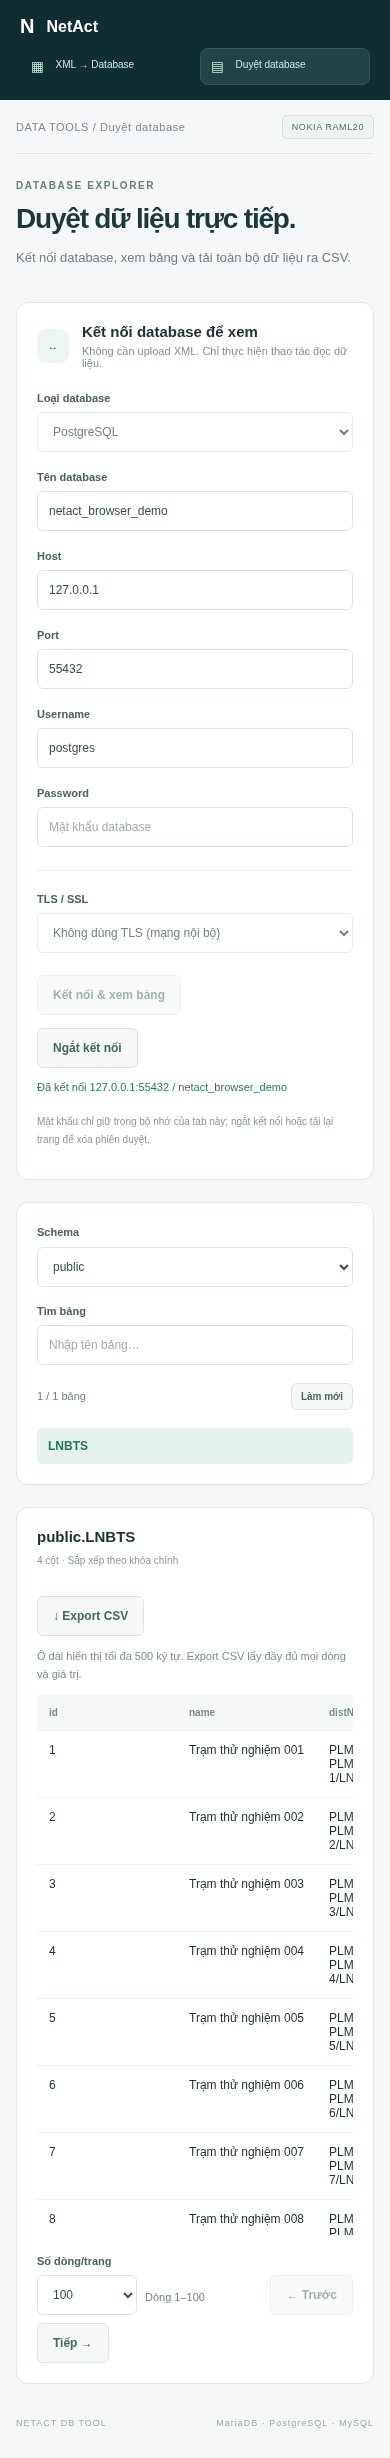
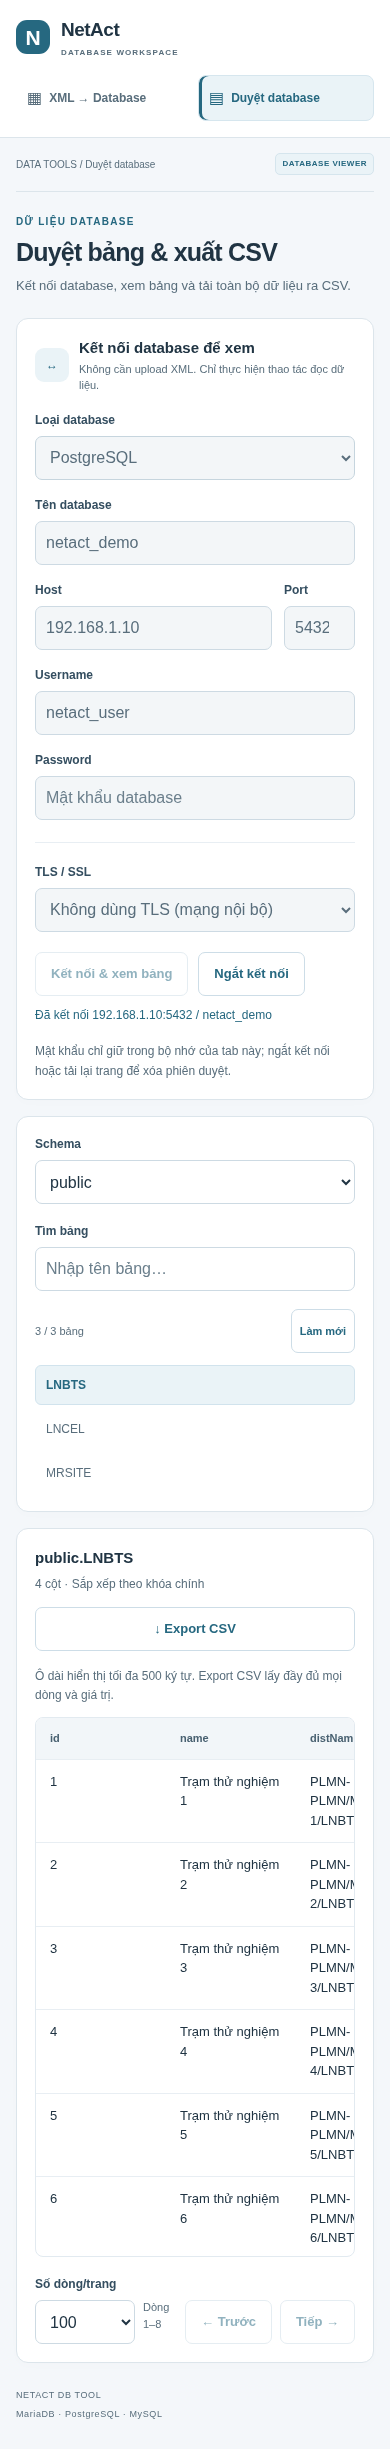
Refresh interface with #266880 accent and clearer import layout

diff --git a/app/static/style.css b/app/static/style.css
@@ -1,6 +1,145 @@
-:root{font-family:Inter,-apple-system,BlinkMacSystemFont,"Segoe UI",sans-serif;color:#1e3033;background:#f5f7f8;font-synthesis:none;font-size:14px}*{box-sizing:border-box}body{margin:0}aside{width:220px;position:fixed;inset:0 auto 0 0;background:#102e31;color:#eaf5f2;padding:34px 22px;display:flex;flex-direction:column}.brand{display:flex;gap:12px;align-items:center;font-size:24px;font-weight:700;color:white;text-decoration:none}.brand>span{font-size:19px}.brand small{display:block;font-size:8px;letter-spacing:2px;color:#92b7b2;margin-top:6px}.nav{margin-top:58px;padding:14px;background:#244346;border:1px solid #385658;border-radius:8px;color:#c6eee3;display:flex;gap:12px}.nav span{font-size:13px}.aside-bottom{margin-top:auto;font-size:12px;color:#bed3d0}.aside-bottom small{display:block;font-size:10px;color:#7d9e9b;margin-top:9px}.dot{display:inline-block;background:#69d9b4;width:6px;height:6px;border-radius:50%;margin-right:6px}main{margin-left:220px;max-width:1500px;padding:0 44px}header{height:80px;display:flex;align-items:center;justify-content:space-between;border-bottom:1px solid #e0e7e7;font-size:11px;color:#7a898d;letter-spacing:.6px}header b{margin:0 13px;font-weight:400;color:#b1bdbe}.badge{border:1px solid #d5e1dd;border-radius:5px;padding:6px 9px;color:#4d7068;font-size:9px;background:#eef4f1}.intro{padding:36px 0 30px}.eyebrow{font-size:10px;font-weight:700;letter-spacing:1.6px;color:#64817b}h1{font-size:34px;letter-spacing:-1.2px;margin:12px 0;color:#193a3b;font-weight:650}.intro>p{color:#718083;font-size:13px;line-height:1.6}.flow{display:flex;align-items:center;gap:17px;margin-top:25px;font-size:11px;color:#5b7473}.flow i{font-style:normal;background:#e1ebe7;padding:4px 7px;border-radius:50%;margin-right:6px;color:#366957}.flow em{font-style:normal;color:#b1bfbc}.columns{display:grid;grid-template-columns:minmax(0,1.9fr) minmax(280px,1fr);gap:24px}.card{background:white;border:1px solid #e0e7e7;border-radius:12px;padding:25px;margin-bottom:22px;box-shadow:0 3px 8px #17383203}.section-title{display:flex;align-items:center;gap:13px;margin-bottom:23px}.step{width:34px;height:34px;border-radius:9px;display:grid;place-items:center;color:#398873;background:#edf5f1;font-size:11px;font-weight:700}h2{font-size:15px;margin:0 0 5px;font-weight:650}.section-title p{font-size:11px;margin:0;color:#82908f}.dropzone{border:1.5px dashed #b7d2c8;border-radius:9px;background:#f7fbf9;min-height:195px;display:flex;align-items:center;justify-content:center;flex-direction:column;gap:10px;cursor:pointer;text-align:center;padding:22px;position:relative}.dropzone:hover,.dropzone.drag{background:#edf7f1;border-color:#378d71}.upload-icon{font-size:28px;color:#3b8e75;background:#e7f2ec;border-radius:10px;padding:0 12px;margin-bottom:4px}.dropzone strong{font-size:13px;max-width:100%;overflow-wrap:anywhere}.dropzone>span{font-size:11px;color:#83938c}.dropzone .file-tag{font-size:9px;letter-spacing:.4px;margin-top:4px}#xml-file{position:absolute;opacity:0;width:100%;height:100%;inset:0;cursor:pointer}.dropzone:focus-within{outline:2px solid #278265}.grid{display:grid;grid-template-columns:1fr 1fr;gap:19px 18px}label{font-size:11px;font-weight:600;color:#4c6262}input,select{width:100%;height:40px;border:1px solid #dce4e3;border-radius:6px;padding:0 11px;background:white;color:#344e4c;margin-top:8px;font-family:inherit;font-size:12px}input::placeholder{color:#a2acab}input:focus,select:focus{outline:2px solid #c7e5d9;border-color:#4d9e80}.options{padding-top:22px;margin-top:23px;border-top:1px solid #edf1f0}.check{display:flex;gap:9px;align-items:center;padding-top:17px}.check input{width:16px;height:16px;margin:0;accent-color:#2d896c}.check small{display:block;font-size:9px;color:#95a29f;font-weight:400;margin-top:5px}.connection-row{display:flex;gap:13px;align-items:center;margin-top:22px}#connection-result{font-size:10px;line-height:1.5}.button{border:0;border-radius:6px;padding:12px 15px;font-family:inherit;font-size:12px;font-weight:600;cursor:pointer}.secondary{background:#f5f8f7;border:1px solid #d9e5df;color:#426b5d;white-space:nowrap}.primary{background:#277d63;color:white;width:100%;display:flex;justify-content:space-between;margin-top:24px}.primary:hover{background:#206b55}.button:disabled{opacity:.5;cursor:wait}.summary h2{font-size:23px;letter-spacing:-.6px;line-height:1.4;margin:16px 0 25px}.summary ol{list-style:none;padding:0;counter-reset:steps}.summary li{counter-increment:steps;position:relative;padding:0 0 15px 31px}.summary li:before{content:counter(steps);position:absolute;left:0;top:-2px;background:#f0f5f3;width:21px;height:21px;border-radius:50%;display:grid;place-items:center;color:#669184;font-size:10px}.summary li b{font-size:12px}.summary li p{font-size:11px;color:#889591;line-height:1.7;margin:7px 0}.notice{padding:14px;background:#f0f7f3;border-radius:7px;color:#45715e;margin-top:8px}.notice strong{font-size:11px}.notice p{font-size:10px;line-height:1.7;margin:7px 0 0}.privacy{font-size:10px;line-height:1.8;color:#8b9793;margin-top:20px}.hint{font-size:9px;color:#91a09a;text-align:center;display:block;margin-top:12px}.status h3{font-size:14px;margin:16px 0 10px}.status p{font-size:11px;line-height:1.8;color:#82908b;overflow-wrap:anywhere}progress{width:85%;height:6px;accent-color:#2c8a6b}#percent{font-size:10px;margin-left:8px;color:#6d8c80}.error{color:#bc4a40!important}.success{color:#26795c!important}.table-wrap{overflow:auto}table{width:100%;border-collapse:collapse;text-align:left;font-size:12px}th{font-size:10px;color:#7a8f87;background:#f5f8f6}th,td{padding:12px;border-bottom:1px solid #eef2ef}footer{padding:12px 0 30px;color:#9aaba4;font-size:9px;letter-spacing:1px;display:flex;justify-content:space-between}[hidden]{display:none!important}@media(min-width:1600px){main{margin-right:auto}}@media(max-width:1100px){aside{width:175px;padding:28px 16px}main{margin-left:175px;padding:0 24px}.columns{grid-template-columns:1fr}.side-column{display:grid;grid-template-columns:1fr 1fr;gap:20px;align-items:start}}@media(max-width:650px){aside{position:static;width:100%;padding:15px 20px}.brand{font-size:20px}.brand>span{font-size:16px}.brand small,.nav,.aside-bottom{display:none}main{margin:0;padding:0 16px}header{height:54px}h1{font-size:28px}.intro{padding:26px 0 20px}.flow{gap:7px;font-size:9px}.flow i{margin-right:2px}.grid,.side-column{grid-template-columns:1fr}.card{padding:20px}.check{padding-top:0}.connection-row{align-items:start;flex-direction:column}.columns{gap:0}.side-column{gap:0}}
-
-.dropzone .upload-icon{display:grid;place-items:center;padding:9px 12px;color:#3b8e75}
-.nav{font-family:inherit;text-align:left;cursor:pointer;width:100%;background:transparent;border-color:transparent}.nav.active{background:#244346;border-color:#385658}.nav+.nav{margin-top:10px}.explorer-layout{display:grid;grid-template-columns:245px minmax(0,1fr);gap:22px}.table-search{display:block;margin-top:18px}.list-heading{display:flex;justify-content:space-between;align-items:center;margin:18px 0;font-size:11px;color:#718083}.compact{padding:7px 9px;font-size:10px}.table-list{display:flex;flex-direction:column;max-height:570px;overflow:auto;gap:4px}.table-list button{border:0;background:transparent;text-align:left;font:inherit;font-size:12px;padding:11px;border-radius:5px;color:#526f65;cursor:pointer;overflow-wrap:anywhere}.table-list button.selected{background:#e5f3ec;color:#20775d;font-weight:600}.table-list button:hover{background:#f0f6f3}.data-heading{display:flex;align-items:start;justify-content:space-between;gap:16px}.data-heading h2{overflow-wrap:anywhere}.data-heading .privacy{margin-top:7px}.browser-table{max-height:540px;min-height:180px}.browser-table table{white-space:pre-wrap}.browser-table td{min-width:140px;max-width:400px;overflow-wrap:anywhere;vertical-align:top}.browser-table th{position:sticky;top:0;white-space:nowrap;z-index:1}.null-cell{font-style:italic;color:#a1aaa6}.pagination{display:flex;gap:12px;align-items:end;flex-wrap:wrap;margin-top:20px}.pagination label{width:100px}.pagination>span{font-size:11px;color:#718083;margin:auto auto 12px 0}#browse-message{font-size:11px;color:#7b8e86;line-height:1.7;overflow-wrap:anywhere}#browse-connection{font-size:11px;overflow-wrap:anywhere}.data-card,.table-list-card{min-width:0}.data-heading .button{white-space:nowrap}@media(max-width:1100px){.explorer-layout{grid-template-columns:190px minmax(0,1fr)}}@media(max-width:650px){aside{flex-direction:row;flex-wrap:wrap;gap:10px}.brand{width:100%}aside .nav{display:flex;flex:1;padding:10px;margin:0!important}aside .nav span{font-size:10px}.explorer-layout{grid-template-columns:1fr;gap:0}.table-list{max-height:180px}.data-heading{flex-direction:column}.pagination{gap:8px}}
-
-.reset-option{margin-top:18px;padding:14px;background:#fff6ef;border:1px solid #efded0;border-radius:7px}.reset-option .check{padding-top:0}.reset-option>label+label{display:block;margin-top:15px}.import-errors{font-size:11px;color:#a6483c;line-height:1.7;overflow-wrap:anywhere}
+:root {
+  --accent: #266880;
+  --accent-hover: #1e5366;
+  --accent-soft: #eaf3f7;
+  --ink: #203443;
+  --muted: #596e7c;
+  --line: #dce5eb;
+  --surface: #fff;
+  --canvas: #f4f7fa;
+  --danger: #ac382f;
+  font-family: -apple-system, BlinkMacSystemFont, "Segoe UI", Arial, sans-serif;
+  font-size: 14px;
+  line-height: 1.5;
+  color: var(--ink);
+  background: var(--canvas);
+  font-synthesis: none;
+}
+* { box-sizing: border-box; }
+body { margin: 0; }
+button, input, select { font: inherit; }
+button { cursor: pointer; }
+[hidden] { display: none !important; }
+:focus-visible { outline: 3px solid #80afc5; outline-offset: 3px; }
+.skip-link { position: fixed; top: -60px; left: 16px; z-index: 10; background: var(--accent); color: #fff; padding: 12px; border-radius: 6px; }
+.skip-link:focus { top: 12px; }
+aside { position: fixed; inset: 0 auto 0 0; width: 232px; background: var(--surface); border-right: 1px solid var(--line); padding: 30px 18px 24px; display: flex; flex-direction: column; z-index: 2; }
+.brand { display: flex; gap: 11px; align-items: center; color: var(--ink); text-decoration: none; margin: 0 10px 36px; }
+.brand > .brand-mark { display: grid; place-items: center; width: 40px; height: 40px; border-radius: 11px; background: var(--accent); color: #fff; font-weight: 700; font-size: 24px; }
+.brand > span:last-child { font-size: 21px; font-weight: 700; letter-spacing: -.5px; }
+.brand small { display: block; margin-top: 2px; font-size: 8px; font-weight: 600; letter-spacing: 1.1px; color: var(--muted); }
+.nav { display: flex; align-items: center; gap: 11px; width: 100%; text-align: left; border: 1px solid transparent; border-radius: 8px; padding: 13px 14px; background: transparent; color: var(--muted); font-size: 16px; margin: 4px 0; }
+.nav span { font-size: 13px; font-weight: 600; }
+.nav:hover { background: #f3f6f9; }
+.nav.active { color: var(--accent); background: var(--accent-soft); border-color: #d6e6ee; box-shadow: inset 3px 0 0 var(--accent); }
+.aside-bottom { margin-top: auto; padding: 18px 10px 0; border-top: 1px solid var(--line); font-size: 12px; color: var(--muted); }
+.aside-bottom small { display: block; font-size: 10px; margin-top: 7px; color: var(--muted); }
+.dot { display: inline-block; width: 7px; height: 7px; margin-right: 7px; border-radius: 50%; background: var(--accent); }
+main { margin-left: 232px; padding: 0 36px; max-width: 1700px; }
+header { min-height: 68px; display: flex; align-items: center; justify-content: space-between; gap: 16px; border-bottom: 1px solid var(--line); font-size: 12px; color: var(--muted); }
+header b { font-weight: 400; margin: 0 10px; color: #a7b7c2; }
+.badge { flex-shrink: 0; border: 1px solid #d5e5ed; color: var(--accent); background: var(--accent-soft); border-radius: 5px; padding: 5px 9px; font-size: 10px; font-weight: 600; letter-spacing: .5px; }
+.intro { padding: 28px 0 24px; }
+.eyebrow { color: var(--accent); font-weight: 700; letter-spacing: 1.3px; font-size: 10px; }
+h1 { margin: 7px 0 8px; font-size: 30px; line-height: 1.3; letter-spacing: -.8px; font-weight: 650; }
+.intro > p { color: var(--muted); margin: 0; font-size: 14px; }
+.flow { display: flex; align-items: center; gap: 18px; margin-top: 22px; color: var(--muted); font-size: 12px; }
+.flow span { display: flex; align-items: center; gap: 7px; }
+.flow i { display: inline-grid; place-items: center; width: 24px; height: 24px; border-radius: 50%; background: #e6edf3; color: var(--accent); font-style: normal; font-size: 11px; font-weight: 700; }
+.flow em { color: #8ca1af; font-style: normal; }
+.columns { display: grid; grid-template-columns: minmax(0, 1fr) 310px; gap: 22px; align-items: start; }
+.form-column, .side-column { min-width: 0; }
+.side-column { position: sticky; top: 24px; }
+.card { background: var(--surface); border: 1px solid var(--line); border-radius: 12px; padding: 24px; margin-bottom: 20px; box-shadow: 0 3px 12px #243e4d03; min-width: 0; }
+.section-title { display: flex; align-items: center; gap: 12px; margin-bottom: 20px; }
+.step { display: grid; place-items: center; flex-shrink: 0; width: 34px; height: 34px; border-radius: 9px; background: var(--accent-soft); color: var(--accent); font-size: 12px; font-weight: 700; }
+h2 { margin: 0; font-size: 16px; line-height: 1.4; font-weight: 650; }
+.section-title p { margin: 3px 0 0; font-size: 12px; color: var(--muted); }
+.dropzone { display: grid; grid-template-columns: 46px 1fr; column-gap: 16px; align-items: center; align-content: center; position: relative; min-height: 126px; padding: 22px; border: 1.5px dashed #9cbccc; border-radius: 9px; background: #f7fbfd; cursor: pointer; transition: background .15s, border-color .15s; }
+.dropzone:hover, .dropzone.drag { background: var(--accent-soft); border-color: var(--accent); }
+.dropzone:focus-within { outline: 3px solid #80afc5; outline-offset: 3px; }
+.upload-icon { grid-row: 1 / 4; display: grid; place-items: center; width: 46px; height: 46px; color: var(--accent); background: #e5f0f5; border-radius: 11px; }
+.dropzone strong { color: var(--ink); font-size: 14px; overflow-wrap: anywhere; min-width: 0; }
+.dropzone > span:not(.upload-icon) { color: var(--muted); font-size: 12px; font-weight: 400; }
+.dropzone .file-tag { font-size: 11px !important; margin-top: 5px; }
+#xml-file { position: absolute; inset: 0; opacity: 0; width: 100%; height: 100%; cursor: pointer; margin: 0; }
+.grid { display: grid; grid-template-columns: repeat(4, minmax(0, 1fr)); gap: 18px; }
+.grid > label { grid-column: span 2; }
+.grid:not(.options) > label:nth-child(3) { grid-column: span 3; }
+.grid:not(.options) > label:nth-child(4) { grid-column: span 1; }
+label { display: block; font-size: 12px; font-weight: 600; color: #344e60; }
+input, select { width: 100%; min-width: 0; height: 44px; margin-top: 7px; border: 1px solid #cddae3; border-radius: 7px; padding: 0 12px; background: var(--surface); color: var(--ink); font-size: 14px; font-weight: 400; transition: border-color .15s, box-shadow .15s; }
+input::placeholder { color: #6b7f8c; opacity: 1; }
+input:hover, select:hover { border-color: #92abba; }
+input:focus, select:focus { outline: 0; border-color: var(--accent); box-shadow: 0 0 0 3px #2668801a; }
+input:disabled, select:disabled { background: #f3f6f8; color: var(--muted); opacity: 1; }
+.options { border-top: 1px solid #e8eef3; margin-top: 22px; padding-top: 20px; }
+.check { display: flex; gap: 10px; align-items: center; font-size: 12px; }
+.options .check { align-self: center; padding-top: 18px; }
+.check input { width: 17px; height: 17px; margin: 0; flex-shrink: 0; accent-color: var(--accent); cursor: pointer; }
+.check small { display: block; font-size: 11px; color: var(--muted); font-weight: 400; margin-top: 3px; line-height: 1.5; }
+.reset-option { margin-top: 20px; border: 1px solid #e1e7ec; border-radius: 8px; padding: 13px 14px; background: #fafbfc; }
+.reset-option:has(input:checked) { border-color: #e7bca8; background: #fff8f3; }
+.reset-option:has(input:checked) .check { color: #9c4532; }
+.reset-option > label + label { margin-top: 15px; }
+.connection-row { display: flex; gap: 14px; align-items: center; flex-wrap: wrap; margin-top: 20px; }
+#connection-result, #browse-connection { font-size: 12px; line-height: 1.6; overflow-wrap: anywhere; flex: 1; min-width: 140px; }
+.button { display: inline-flex; gap: 12px; align-items: center; justify-content: center; min-height: 42px; padding: 10px 15px; border: 1px solid transparent; border-radius: 7px; font-size: 13px; font-weight: 600; transition: background .15s, box-shadow .15s; }
+.secondary { background: #fff; border-color: #cddde7; color: var(--accent); }
+.secondary:hover { background: var(--accent-soft); border-color: #9bbdce; }
+.primary { background: var(--accent); color: #fff; padding: 12px 19px; box-shadow: 0 3px 6px #26688017; }
+.primary:hover { background: var(--accent-hover); }
+.button:disabled, button:disabled { opacity: .5; cursor: not-allowed; box-shadow: none; }
+.form-actions { display: flex; justify-content: space-between; align-items: center; gap: 16px; padding-top: 20px; margin-top: 22px; border-top: 1px solid var(--line); }
+.form-actions > span { font-size: 12px; color: var(--muted); }
+.task-details { margin: 0 0 20px; }
+.task-details > div { padding: 11px 0; border-bottom: 1px solid #edf1f5; }
+.task-details dt { font-size: 11px; color: var(--muted); margin-bottom: 4px; }
+.task-details dd { margin: 0; font-size: 13px; font-weight: 600; overflow-wrap: anywhere; }
+.notice { padding: 14px; background: var(--accent-soft); border-radius: 8px; color: var(--accent); }
+.notice strong { font-size: 12px; }
+.notice p { margin: 6px 0 0; font-size: 12px; line-height: 1.7; color: #405f70; }
+.privacy { margin: 16px 0 0; font-size: 12px; line-height: 1.7; color: var(--muted); }
+.status h3 { font-size: 15px; margin: 13px 0 8px; }
+.status p { font-size: 12px; line-height: 1.7; color: var(--muted); overflow-wrap: anywhere; }
+progress { appearance: none; width: calc(100% - 42px); height: 7px; border: 0; border-radius: 20px; overflow: hidden; background: #e6edf3; accent-color: var(--accent); }
+progress::-webkit-progress-bar { background: #e6edf3; border-radius: 20px; }
+progress::-webkit-progress-value { background: var(--accent); border-radius: 20px; transition: width .2s; }
+progress::-moz-progress-bar { background: var(--accent); border-radius: 20px; }
+#percent { font-size: 11px; margin-left: 8px; color: var(--accent); }
+.error, .import-errors { color: var(--danger) !important; }
+.success { color: var(--accent) !important; }
+.import-errors { font-size: 12px; line-height: 1.7; overflow-wrap: anywhere; }
+.table-wrap { overflow: auto; border: 1px solid #e2eaf0; border-radius: 8px; }
+table { width: 100%; border-collapse: collapse; text-align: left; font-size: 13px; }
+th, td { padding: 12px 14px; border-bottom: 1px solid #e8eef3; }
+th { background: #f2f6f9; color: #496171; font-size: 11px; font-weight: 650; }
+tbody tr:last-child td { border-bottom: 0; }
+tbody tr:hover { background: #f7fbfd; }
+.explorer-layout { display: grid; grid-template-columns: 230px minmax(0, 1fr); gap: 20px; }
+.table-search { margin-top: 18px; }
+.list-heading { display: flex; align-items: center; justify-content: space-between; gap: 10px; margin: 18px 0 12px; font-size: 11px; color: var(--muted); }
+.compact { min-height: 32px; padding: 5px 8px; font-size: 11px; }
+.table-list { display: flex; flex-direction: column; max-height: 540px; overflow: auto; gap: 4px; }
+.table-list button { border: 1px solid transparent; border-radius: 6px; padding: 10px; background: transparent; text-align: left; font-size: 12px; color: var(--muted); overflow-wrap: anywhere; }
+.table-list button:hover { background: #f2f6f9; }
+.table-list button.selected { border-color: #d1e3ed; background: var(--accent-soft); color: var(--accent); font-weight: 600; }
+.data-heading { display: flex; gap: 16px; align-items: start; justify-content: space-between; margin-bottom: 16px; }
+.data-heading h2 { overflow-wrap: anywhere; }
+.data-heading .privacy { margin-top: 6px; }
+.data-heading .button { flex-shrink: 0; }
+.browser-table { max-height: 540px; min-height: 180px; }
+.browser-table table { white-space: pre-wrap; }
+.browser-table td { min-width: 130px; max-width: 400px; overflow-wrap: anywhere; vertical-align: top; }
+.browser-table th { position: sticky; top: 0; z-index: 1; white-space: nowrap; }
+.null-cell { font-style: italic; color: #677d8b; }
+#browse-message { color: var(--muted); font-size: 12px; line-height: 1.6; overflow-wrap: anywhere; }
+.pagination { display: flex; gap: 10px; align-items: end; flex-wrap: wrap; margin-top: 18px; }
+.pagination label { width: 105px; }
+.pagination > span { margin: auto auto 12px 0; font-size: 11px; color: var(--muted); }
+footer { display: flex; justify-content: space-between; gap: 16px; padding: 10px 0 28px; color: var(--muted); font-size: 10px; letter-spacing: .6px; }
+@media (min-width: 1500px) { main { padding-left: 52px; padding-right: 52px; } .columns { grid-template-columns: minmax(0, 1fr) 340px; gap: 24px; } }
+@media (max-width: 1150px) { aside { width: 205px; padding: 26px 12px; } main { margin-left: 205px; padding: 0 24px; } .brand { margin-left: 6px; } .brand small { font-size: 7px; } .columns { grid-template-columns: minmax(0, 1fr) 275px; gap: 18px; } .card { padding: 20px; } .form-actions { flex-direction: column; align-items: stretch; } .form-actions > span { text-align: center; } .explorer-layout { grid-template-columns: 195px minmax(0, 1fr); } }
+@media (max-width: 980px) { .columns { grid-template-columns: 1fr; } .side-column { position: static; display: grid; grid-template-columns: 1fr 1fr; gap: 18px; } .form-actions { flex-direction: row; align-items: center; } .summary .section-title p { display: none; } .explorer-layout { grid-template-columns: 1fr; gap: 0; } .table-list { max-height: 180px; } }
+@media (max-width: 650px) { aside { position: static; width: 100%; flex-direction: row; flex-wrap: wrap; gap: 6px; padding: 16px; border-right: 0; border-bottom: 1px solid var(--line); } .brand { width: 100%; margin: 0 0 10px; } .brand small { font-size: 8px; } .brand > .brand-mark { width: 34px; height: 34px; font-size: 21px; } .brand > span:last-child { font-size: 19px; } .nav { flex: 1; min-height: 44px; gap: 7px; padding: 10px; margin: 0; } .nav span { font-size: 12px; } .aside-bottom { display: none; } main { margin: 0; padding: 0 16px; } header { min-height: 54px; font-size: 10px; } .badge { font-size: 8px; padding: 4px 6px; } .intro { padding: 22px 0; } h1 { font-size: 25px; } .intro > p { font-size: 13px; } .flow { gap: 7px; font-size: 10px; margin-top: 18px; } .flow span { gap: 4px; } .flow i { width: 20px; height: 20px; font-size: 10px; } .flow em { font-size: 10px; } .card { padding: 18px; margin-bottom: 16px; } .section-title { margin-bottom: 17px; gap: 10px; } h2 { font-size: 15px; } .section-title p { font-size: 11px; } .dropzone { padding: 18px 14px; column-gap: 12px; } .dropzone strong { font-size: 13px; } .dropzone > span:not(.upload-icon) { font-size: 11px; } .grid { gap: 16px 12px; } .grid > label { grid-column: 1 / -1; } .grid:not(.options) > label:nth-child(3) { grid-column: span 3; } .grid:not(.options) > label:nth-child(4) { grid-column: span 1; } input, select { font-size: 16px; padding: 0 10px; } .options .check { padding-top: 0; } .form-actions { flex-direction: column; align-items: stretch; } .form-actions > span { text-align: left; } .button { min-height: 44px; } .connection-row { align-items: stretch; gap: 10px; } #connection-result, #browse-connection { flex-basis: 100%; } .side-column { display: block; } .data-heading { flex-direction: column; gap: 12px; } .data-heading .button { width: 100%; } .pagination { gap: 8px; } .pagination label { width: 100px; } .pagination > span { flex: 1; margin-right: 0; } footer { flex-direction: column; gap: 5px; font-size: 9px; } }
+@media (prefers-reduced-motion: reduce) { *, *::before, *::after { transition: none !important; scroll-behavior: auto !important; } }

diff --git a/app/static/index.html b/app/static/index.html
@@ -1,28 +1,29 @@
 <!doctype html>
 <html lang="vi">
 <head><meta charset="utf-8"><meta name="viewport" content="width=device-width,initial-scale=1"><title>NetAct · XML to Database</title><link rel="stylesheet" href="/static/style.css"><script defer src="/static/app.js"></script><script defer src="/static/browser.js"></script></head>
-<body>
-<aside><a class="brand" href="/">N<span>NetAct <small>DATA WORKSPACE</small></span></a><button type="button" class="nav active" data-view="import">▦ <span>XML → Database</span></button><button type="button" class="nav" data-view="browser">▤ <span>Duyệt database</span></button><div class="aside-bottom"><span class="dot"></span> Local processing<br><small>Dữ liệu xử lý trên máy chủ của bạn</small></div></aside>
-<main><header><span id="workspace-label">DATA TOOLS <b>/</b> XML Import</span><span class="badge">NOKIA RAML20</span></header>
-<div id="import-view"><section class="intro"><div class="eyebrow">IMPORT WORKSPACE</div><h1>Từ XML đến database.</h1><p>Chuyển đổi dữ liệu cấu hình NetAct và nhập vào cơ sở dữ liệu trong một quy trình.</p><div class="flow"><span><i>1</i> Chọn XML</span><em>→</em><span><i>2</i> Kết nối database</span><em>→</em><span><i>3</i> Chuyển đổi & nhập</span></div></section>
+<body><a class="skip-link" href="#main-content">Đi đến nội dung chính</a>
+<aside aria-label="Điều hướng ứng dụng"><a class="brand" href="/"><span class="brand-mark">N</span><span>NetAct <small>DATABASE WORKSPACE</small></span></a><button type="button" class="nav active" data-view="import" aria-controls="import-view" aria-pressed="true">▦ <span>XML → Database</span></button><button type="button" class="nav" data-view="browser" aria-controls="browser-view" aria-pressed="false">▤ <span>Duyệt database</span></button><div class="aside-bottom"><span class="dot"></span> Xử lý trên máy chủ<br><small>MariaDB · PostgreSQL · MySQL</small></div></aside>
+<main id="main-content"><header><span id="workspace-label">DATA TOOLS <b>/</b> XML Import</span><span class="badge" id="workspace-badge">NOKIA RAML20</span></header>
+<div id="import-view"><section class="intro"><div class="eyebrow">NHẬP DỮ LIỆU</div><h1>Nhập XML vào database</h1><p>Chọn file NetAct, cấu hình kết nối và theo dõi kết quả trong một màn hình.</p><div class="flow"><span><i>1</i> Chọn XML</span><em>→</em><span><i>2</i> Kết nối database</span><em>→</em><span><i>3</i> Chuyển đổi & nhập</span></div></section>
 <form id="import-form">
 <div class="columns"><div class="form-column">
-<section class="card"><div class="section-title"><span class="step">01</span><div><h2>File nguồn</h2><p>Chọn bản xuất cấu hình Nokia NetAct</p></div></div>
-<label class="dropzone" id="dropzone" for="xml-file"><span class="upload-icon"><svg width="25" height="25" viewBox="0 0 24 24" fill="none" stroke="currentColor" stroke-width="1.5" aria-hidden="true"><path d="M12 16V3m-5 5 5-5 5 5M4 15v5a1 1 0 0 0 1 1h14a1 1 0 0 0 1-1v-5"/></svg></span><strong id="filename">Kéo thả file XML vào đây</strong><span id="filedetail">hoặc nhấn để chọn file từ máy tính</span><span class="file-tag" id="upload-limit">.XML · RAML20 · không giới hạn dung lượng</span><input id="xml-file" name="file" type="file" accept=".xml,text/xml,application/xml" required></label>
+<section class="card"><div class="section-title"><span class="step">01</span><div><h2>Chọn file XML</h2><p>Chọn bản xuất cấu hình Nokia NetAct</p></div></div>
+<label class="dropzone" id="dropzone" for="xml-file"><span class="upload-icon"><svg width="25" height="25" viewBox="0 0 24 24" fill="none" stroke="currentColor" stroke-width="1.5" aria-hidden="true"><path d="M12 16V3m-5 5 5-5 5 5M4 15v5a1 1 0 0 0 1 1h14a1 1 0 0 0 1-1v-5"/></svg></span><strong id="filename">Kéo thả hoặc chọn file XML</strong><span id="filedetail">Nhấn để duyệt file trên máy tính</span><span class="file-tag" id="upload-limit">.XML · RAML20 · không giới hạn dung lượng</span><input id="xml-file" name="file" type="file" accept=".xml,text/xml,application/xml" required></label>
 </section>
 <section class="card"><div class="section-title"><span class="step">02</span><div><h2>Kết nối database</h2><p>Thông tin máy chủ nhận dữ liệu</p></div></div>
-<div class="grid"><label>Loại database<select id="db_type"><option value="mariadb">MariaDB</option><option value="postgres">PostgreSQL</option><option value="mysql">MySQL</option></select></label><label>Tên database<input id="database" placeholder="netact_import" pattern="[A-Za-z_][A-Za-z0-9_]{0,62}" title="Chữ Latin, số, dấu gạch dưới; không bắt đầu bằng số; tối đa 63 ký tự" required></label><label>Host<input id="host" placeholder="localhost hoặc địa chỉ máy chủ" required></label><label>Port<input id="port" type="number" min="1" max="65535" value="3306" required></label><label>Username<input id="username" autocomplete="username" placeholder="netact_user" required></label><label>Password<input id="password" type="password" autocomplete="current-password" placeholder="Mật khẩu database"></label></div>
+<div class="grid"><label>Loại database<select id="db_type"><option value="mariadb">MariaDB</option><option value="postgres">PostgreSQL</option><option value="mysql">MySQL</option></select></label><label>Tên database<input id="database" placeholder="netact_import" pattern="[A-Za-z_][A-Za-z0-9_]{0,62}" title="Chữ Latin, số, dấu gạch dưới; không bắt đầu bằng số; tối đa 63 ký tự" required></label><label>Host<input id="host" placeholder="VD: 192.168.1.10" required></label><label>Port<input id="port" type="number" min="1" max="65535" value="3306" required></label><label>Username<input id="username" autocomplete="username" placeholder="netact_user" required></label><label>Password<input id="password" type="password" autocomplete="current-password" placeholder="Mật khẩu database"></label></div>
 <div class="grid options"><label>TLS / SSL<select id="ssl_mode"><option value="disable">Không dùng TLS (mạng nội bộ)</option><option value="verify-full">TLS + xác minh chứng chỉ</option><option value="require" id="tls-require" disabled>TLS bắt buộc (PostgreSQL)</option></select></label><label class="check"><input id="create_database" type="checkbox"><span>Tạo database mới<small>Dừng nếu tên database đã tồn tại</small></span></label></div>
 <div class="reset-option"><label class="check"><input id="reset_database" type="checkbox"><span>Xóa và tạo lại database như script gốc<small>Xóa toàn bộ bảng/dữ liệu trong database đích trước khi nhập</small></span></label><label id="reset-confirm-label" hidden>Nhập lại tên database để xác nhận xóa<input id="confirm_database" autocomplete="off" placeholder="Tên database sẽ bị xóa"></label></div>
 <div class="connection-row"><button type="button" class="button secondary" id="test-connection">↔ Kiểm tra kết nối</button><span id="connection-result" role="status"></span></div>
+<div class="form-actions"><span>Đã sẵn sàng? Bắt đầu nhập dữ liệu.</span><button class="button primary" id="submit" type="submit">Chuyển đổi & nhập <span aria-hidden="true">→</span></button></div>
 </section>
-</div><div class="side-column"><section class="card summary"><span class="eyebrow">QUY TRÌNH XỬ LÝ</span><h2>Một lần chạy.<br>Hai bước tự động.</h2><ol><li><b>XML → CSV</b><p>Chuyển đổi bằng Boda Nokia CM Data Parser.</p></li><li><b>CSV → Database</b><p>Tạo bảng theo loại đối tượng và nhập theo lô.</p></li></ol><div class="notice"><strong>Nhập theo script Python gốc</strong><p>Dò VARCHAR/TEXT, điền/cắt dòng thiếu hoặc thừa cột. Gặp lỗi tạo bảng hoặc insert sẽ ghi nhận và tiếp tục. Chỉ xóa database khi bạn chọn và xác nhận rõ bên trái.</p></div><p class="privacy">Mật khẩu chỉ dùng cho tác vụ hiện tại. File tạm được xóa khi xử lý xong.</p><button class="button primary" id="submit" type="submit">Chuyển đổi & nhập <span>→</span></button><small class="hint">Máy chủ web cần truy cập được database.</small></section>
+</div><div class="side-column"><section class="card summary"><div class="section-title"><span class="step">03</span><div><h2>Tóm tắt tác vụ</h2><p>Kiểm tra lựa chọn trước khi bắt đầu</p></div></div><dl class="task-details"><div><dt>File XML</dt><dd id="summary-file">Chưa chọn file</dd></div><div><dt>Database</dt><dd id="summary-db">Chưa nhập tên</dd></div><div><dt>Máy chủ</dt><dd id="summary-host">Chưa cấu hình</dd></div></dl><div class="notice"><strong>XML → CSV → Database</strong><p>Tự động chuyển đổi và nhập theo script gốc. Kết quả sẽ ghi rõ số dòng thành công và lỗi.</p></div><p class="privacy">Mật khẩu chỉ dùng cho tác vụ hiện tại. File tạm được xóa sau khi xử lý.</p></section>
 <section class="card status" id="status-panel" aria-live="polite"><div class="eyebrow">TRẠNG THÁI TÁC VỤ</div><h3 id="status-title">Sẵn sàng nhận dữ liệu</h3><p id="status-message">Chọn XML và kiểm tra cấu hình để bắt đầu.</p><progress id="progress" max="100" value="0"></progress><span id="percent">0%</span><div id="result-summary"></div></section></div></div>
 </form>
 <section class="card results" id="results" hidden><div class="section-title"><span class="step">✓</span><div><h2>Kết quả nhập dữ liệu</h2><p id="totals"></p></div></div><div class="table-wrap"><table><thead><tr><th>Bảng đích</th><th>Số dòng</th><th>Số cột</th><th>Dòng lỗi</th><th>Kết quả</th></tr></thead><tbody id="result-rows"></tbody></table></div><div id="import-errors" class="import-errors"></div></section>
 </div>
 <section id="browser-view" hidden>
-<div class="intro"><div class="eyebrow">DATABASE EXPLORER</div><h1>Duyệt dữ liệu trực tiếp.</h1><p>Kết nối database, xem bảng và tải toàn bộ dữ liệu ra CSV.</p></div>
+<div class="intro"><div class="eyebrow">DỮ LIỆU DATABASE</div><h1>Duyệt bảng & xuất CSV</h1><p>Kết nối database, xem bảng và tải toàn bộ dữ liệu ra CSV.</p></div>
 <section class="card"><div class="section-title"><span class="step">↔</span><div><h2>Kết nối database để xem</h2><p>Không cần upload XML. Chỉ thực hiện thao tác đọc dữ liệu.</p></div></div>
 <form id="browse-connect-form"><div id="browse-fields"></div><div class="connection-row"><button class="button secondary" id="browse-connect" type="submit">Kết nối & xem bảng</button><button class="button secondary" id="browse-disconnect" type="button" hidden>Ngắt kết nối</button><span id="browse-connection" role="status"></span></div></form>
 <p class="privacy">Mật khẩu chỉ giữ trong bộ nhớ của tab này; ngắt kết nối hoặc tải lại trang để xóa phiên duyệt.</p></section>

diff --git a/app/static/app.js b/app/static/app.js
@@ -16,6 +16,8 @@ async function request(url, options) {
 }
 function setBusy(value) {
   busy = value;
+  $('submit').setAttribute('aria-busy', String(value));
+  $('submit').firstChild.textContent = value ? 'Đang xử lý… ' : 'Chuyển đổi & nhập ';
   for (const control of form.querySelectorAll('input,select,button')) control.disabled = value;
   if (!value) {
     $('tls-require').disabled = $('db_type').value !== 'postgres';
@@ -32,10 +34,19 @@ function resetChoice() {
   $('confirm_database').setCustomValidity(match ? '' : 'Nhập đúng tên database để xác nhận xóa.');
 }
 for (const id of ['reset_database','confirm_database','database']) $(id).addEventListener('input', resetChoice);
+function updateSummary() {
+  const file = $('xml-file').files[0];
+  $('summary-file').textContent = file ? file.name : 'Chưa chọn file';
+  const engine = $('db_type').selectedOptions[0].textContent;
+  $('summary-db').textContent = `${engine} · ${$('database').value.trim() || 'Chưa nhập tên'}`;
+  $('summary-host').textContent = $('host').value.trim() ? `${$('host').value.trim()}:${$('port').value}` : 'Chưa cấu hình';
+}
+for (const id of ['db_type', 'database', 'host', 'port']) $(id).addEventListener('input', updateSummary);
 function showFile() {
   const file = $('xml-file').files[0];
-  $('filename').textContent = file ? file.name : 'Kéo thả file XML vào đây';
-  $('filedetail').textContent = file ? `${(file.size / 1024 ** 2).toFixed(2)} MB · sẵn sàng chuyển đổi` : 'hoặc nhấn để chọn file từ máy tính';
+  updateSummary();
+  $('filename').textContent = file ? file.name : 'Kéo thả hoặc chọn file XML';
+  $('filedetail').textContent = file ? `${(file.size / 1024 ** 2).toFixed(2)} MB · sẵn sàng chuyển đổi` : 'Nhấn để duyệt file trên máy tính';
 }
 $('xml-file').addEventListener('change', showFile);
 const zone = $('dropzone');
@@ -52,6 +63,7 @@ $('db_type').addEventListener('change', () => {
   $('tls-require').disabled = $('db_type').value !== 'postgres';
   if ($('tls-require').disabled && $('ssl_mode').value === 'require') $('ssl_mode').value = 'disable';
   $('connection-result').textContent = '';
+  updateSummary();
 });
 form.addEventListener('input', () => {$('connection-result').textContent = '';});
 $('test-connection').addEventListener('click', async () => {
@@ -128,6 +140,7 @@ form.addEventListener('submit', async event => {
   } catch (error) {$('status-message').textContent = error.message; $('status-message').className = 'error';}
   finally {setBusy(false);}
 });
+updateSummary();
 (async () => {
   try {
     const health = await request('/api/health');

diff --git a/app/static/browser.js b/app/static/browser.js
@@ -13,6 +13,8 @@
     button.addEventListener('click', () => {
       const browse = button.dataset.view === 'browser';
       el('workspace-label').textContent = browse ? 'DATA TOOLS / Duyệt database' : 'DATA TOOLS / XML Import';
+      el('workspace-badge').textContent = browse ? 'DATABASE VIEWER' : 'NOKIA RAML20';
+      document.querySelectorAll('[data-view]').forEach(node => node.setAttribute('aria-pressed', String(node === button)));
       el('browser-view').hidden = !browse; el('import-view').hidden = browse;
       document.querySelectorAll('[data-view]').forEach(node => node.classList.toggle('active', node === button));
     });
